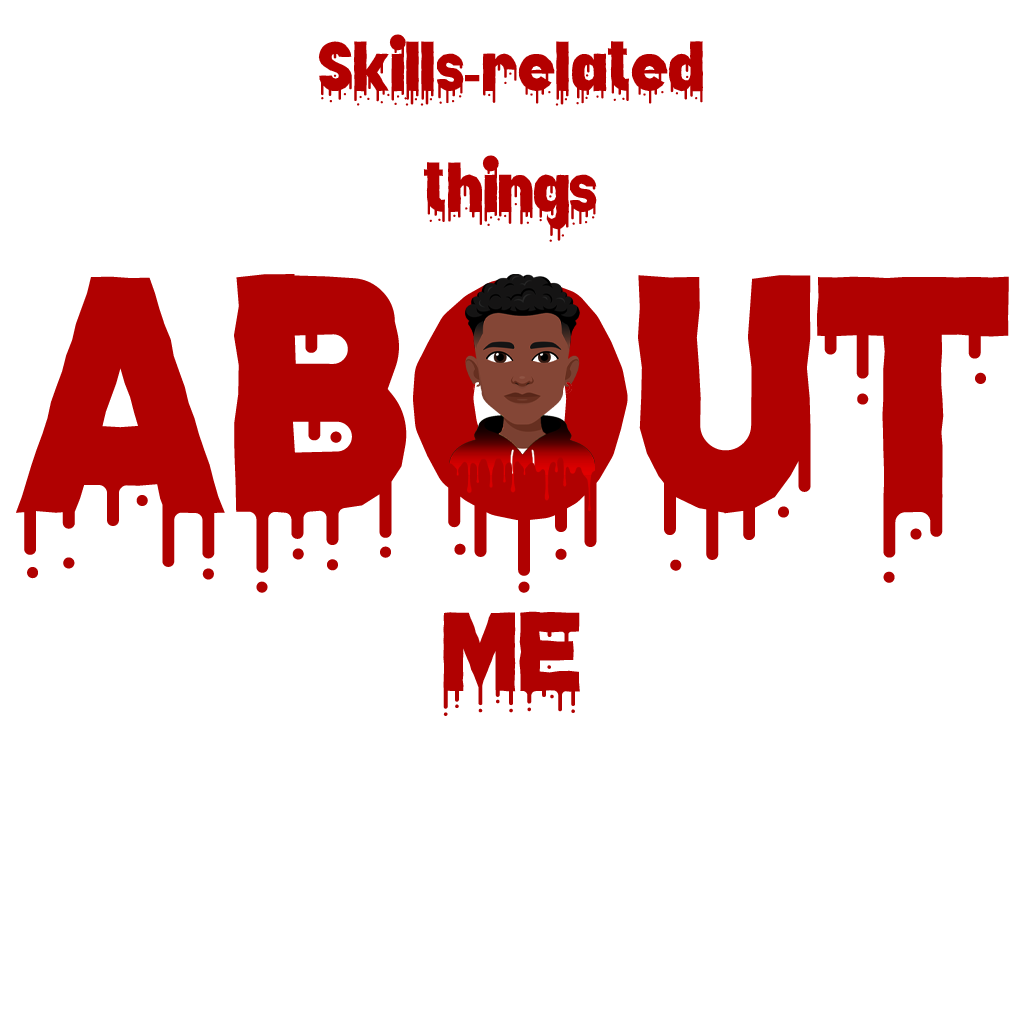
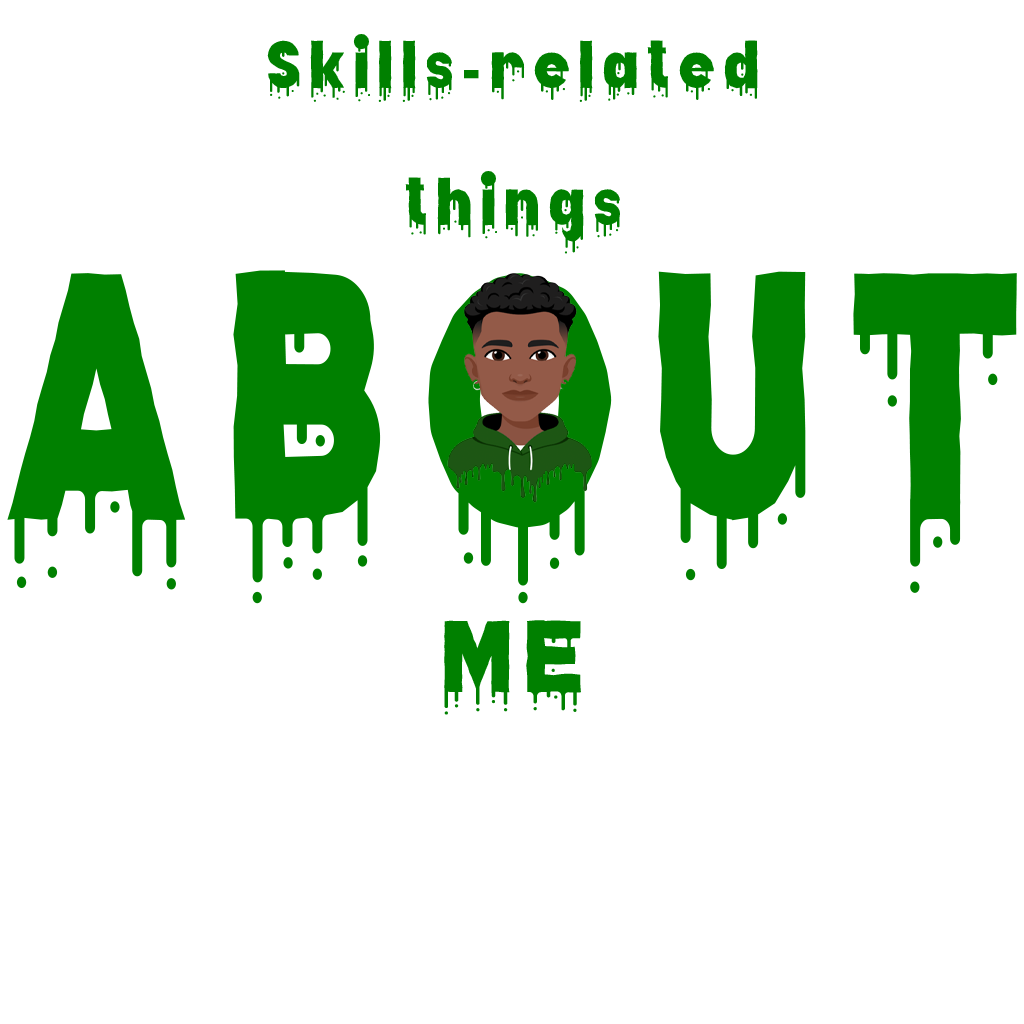
green

diff --git a/src/app/components/EmailSection.jsx b/src/app/components/EmailSection.jsx
@@ -44,7 +44,7 @@ const EmailSection = () => {
       id="contact"
       className="grid md:grid-cols-2 my-12 md:my-12 py-24 gap-4 relative"
     >
-      <div className="bg-[radial-gradient(ellipse_at_center,_var(--tw-gradient-stops))] from-blood to-transparent rounded-full h-80 w-80 z-0 blur-lg absolute top-3/4 -left-4 transform -translate-x-1/2 -translate-1/2"></div>
+      <div className="bg-[radial-gradient(ellipse_at_center,_var(--tw-gradient-stops))] from-primary to-transparent rounded-full h-80 w-80 z-0 blur-lg absolute top-3/4 -left-4 transform -translate-x-1/2 -translate-1/2"></div>
       <div className="z-10">
         <h5 className="text-xl font-bold text-white my-2">
           Let&apos;s Connect
@@ -119,7 +119,7 @@ const EmailSection = () => {
             </div>
             <button
               type="submit"
-              className="bg-reddy hover:bg-primary-600 text-white font-medium py-2.5 px-5 rounded-lg w-full"
+              className="bg-primary hover:bg-primary-600 text-white font-medium py-2.5 px-5 rounded-lg w-full"
             >
               Send Message
             </button>

diff --git a/src/app/components/HeroSection.jsx b/src/app/components/HeroSection.jsx
@@ -16,7 +16,7 @@ const HeroSection = () => {
           className="col-span-8 place-self-center text-center sm:text-left justify-self-start"
         >
           <h1 className="text-white mb-2 text-2xl sm:text-3xl lg:text-6xl lg:leading-normal font-semibold">
-            <span className="text-reddy">
+            <span className="text-primary">
             Welcome, I&apos;m{" "}
             </span>
             <br></br>
@@ -42,9 +42,9 @@ const HeroSection = () => {
           <div>
             <Link
               href="/#contact"
-              className="px-1 inline-block py-1 w-full sm:w-fit rounded-full mr-4 bg-reddy hover:bg-slate-200 text-white"
+              className="px-1 inline-block py-1 w-full sm:w-fit rounded-full mr-4 bg-primary hover:bg-slate-200 text-white"
             >
-             <span className="block bg-[#000000] hover:bg-reddy rounded-full px-5 py-2">
+             <span className="block bg-[#000000] hover:bg-primary rounded-full px-5 py-2">
               Hire Me
               </span>
             </Link>

diff --git a/src/app/layout.js b/src/app/layout.js
@@ -1,5 +1,6 @@
 import './globals.css'
 import { Inter } from 'next/font/google'
+import ParticlesComponent from "../app/components/particles"
 
 const inter = Inter({ subsets: ['latin'] })
 
@@ -11,7 +12,10 @@ export const metadata = {
 export default function RootLayout({ children }) {
   return (
     <html lang="en">
-      <body className={inter.className}>{children}</body>
+      <body className={inter.className}>{children}
+        <ParticlesComponent id="particles" /> 
+      </body>
+        
     </html>
   )
 }

diff --git a/src/app/components/particles.jsx b/src/app/components/particles.jsx
@@ -61,7 +61,7 @@ const ParticlesComponent = (props) => {
           value: "primary",
         },
         links: {
-          color: "#FF0000",
+          color: "#008000",
           distance: 150,
           enable: true,
           opacity: 0.3,
@@ -90,7 +90,7 @@ const ParticlesComponent = (props) => {
           type: "circle",
         },
         size: {
-          value: { min: 1, max: 4 },
+          value: { min: 1, max: 3 },
         },
       },
       detectRetina: true,

diff --git a/src/app/components/Navbar.jsx b/src/app/components/Navbar.jsx
@@ -28,7 +28,7 @@ const Navbar = () => {
       <div className="flex container lg:py-4 flex-wrap items-center justify-between mx-auto px-4 py-2">
         <Link
           href={"/"}
-          className="text-reddy bg-clip-text bg-gradient-to-r from-primary-600 to-secondary-500 font-semibold"
+          className="text-primary bg-clip-text bg-gradient-to-r from-primary-600 to-primary-500 font-semibold"
         >
           iLunaweb
         </Link>

diff --git a/src/app/components/AchievementsSection.jsx b/src/app/components/AchievementsSection.jsx
@@ -42,7 +42,7 @@ const AchievementsSection = () => {
               key={index}
               className="flex flex-col items-center justify-center mx-4 my-4 sm:my-0"
             >
-              <h2 className="text-reddy text-4xl font-bold flex flex-row">
+              <h2 className="text-primary text-4xl font-bold flex flex-row">
                 {achievement.prefix}
                 <AnimatedNumbers
                   includeComma

diff --git a/src/app/components/ProjectTag.jsx b/src/app/components/ProjectTag.jsx
@@ -2,7 +2,7 @@ import React from "react";
 
 const ProjectTag = ({ name, onClick, isSelected }) => {
   const buttonStyles = isSelected
-    ? "text-white border-reddy"
+    ? "text-white border-primary"
     : "text-[#ADB7BE] border-slate-200 hover:border-white";
   return (
     <button

diff --git a/tailwind.config.js b/tailwind.config.js
@@ -16,7 +16,7 @@ module.exports = {
     },
     colors: {
       ...colors,
-      primary: colors.red,
+      primary: "#008000",
       secondary: colors.red,
       yellow: "#E0E300",
       green: "#17B602",

diff --git a/src/app/page.js b/src/app/page.js
@@ -19,7 +19,7 @@ export default function Home() {
         <EmailSection />
       </div>
       <Footer />
-        <ParticlesComponent id="particles" />
+   
     </main>
   );
 }
